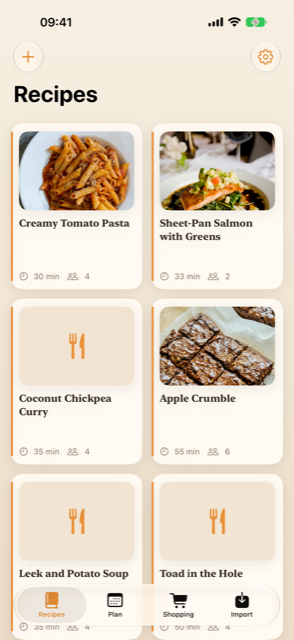
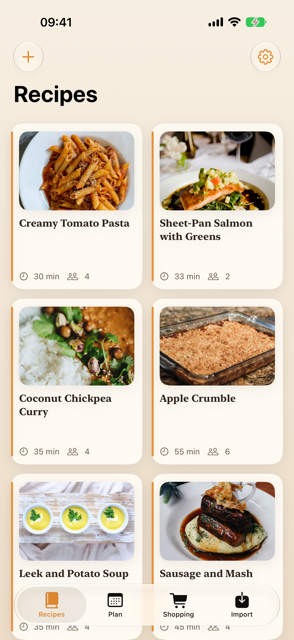
Refresh the screenshots: every library card now carries a photo

diff --git a/index.html b/index.html
@@ -44,7 +44,7 @@
     <img src="screenshots/04-shopping.png" width="294" height="640" loading="lazy" decoding="async"
          alt="A shopping list with 29 items, each showing a quantity, a grocery name, and the recipe it came from.">
     <img src="screenshots/03-planner.png" width="294" height="640" loading="lazy" decoding="async"
-         alt="A seven day meal plan, with a recipe on Monday, Tuesday and Thursday and free-text entries on Wednesday and Friday.">
+         alt="A seven day meal plan, with a recipe on Monday, Tuesday and Thursday and a free-text entry on Wednesday.">
   </div>
 
   <section class="wrap" id="how">
